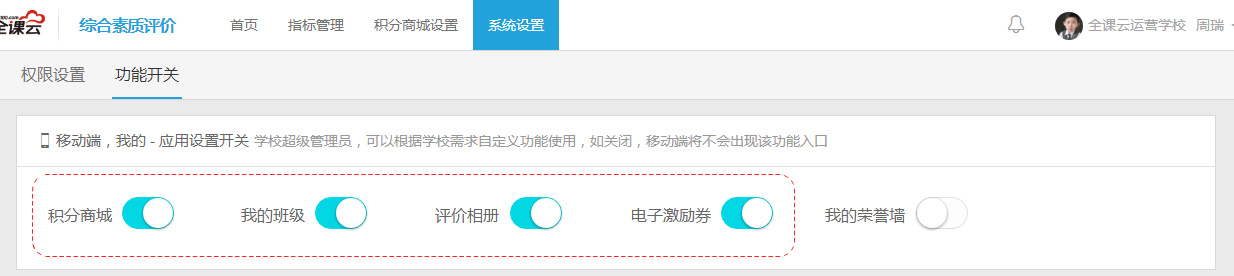
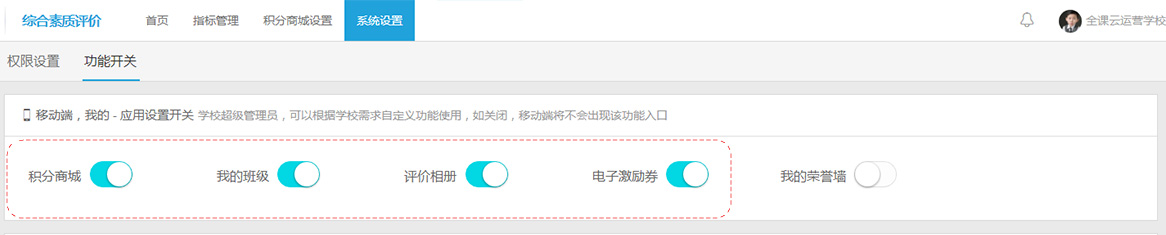
调整

diff --git a/Daily-evaluation/html/04sysset.html b/Daily-evaluation/html/04sysset.html
@@ -127,7 +127,7 @@
   </div>
   <div class="cont-wrap mar_t15">
     <div class="cont_tit pad_lr20 clear">
-      <div class="col-sm-7 pad_0"><h3><i class="qkyicon mar_r5">&#xe640;</i>评价老师授权<span class="fz_1 co_999 mar_l5">被超级管理员授权的老师，拥有评价学生操作权限；设置后评价老师进入移动端，将直接进入评价页操作</span></h3></div>
+      <div class="col-sm-7 pad_0"><h3><i class="qkyicon mar_r5">&#xe640;</i>评价老师授权<span class="fz_1 co_999 mar_l5">由学生管理员自行设置，设置后将拥有评价学生的操作权限，并同步移动端权限 </span></h3></div>
       <div class="fr">
         <a class=" btn btn-default" data-toggle="modal" data-target="#add-teacher"><i class="qkyicon fz_1">&#xe731;</i>添加老师</a>
       </div>

diff --git a/Daily-evaluation/html/04sysset_on-off.html b/Daily-evaluation/html/04sysset_on-off.html
@@ -121,7 +121,7 @@
       <h2 class="pad_15 text-center">关于移动端“我的”功能应用</h2>
       <div class="pad_t15">
         <div class=" fz15">我的应用简介：</div>
-        <div class="pad_10">
+        <div class="pad_10 text-indent">
           除了学生评价操作外，产品在评价记录使用上，新增更加丰富激励性的功能；其中，积分商城等功能让学校和家庭更好参与评价过程中，达到评而学、学而评的目标，更好的促进学生综合素质发展。学校可自主开关功能入口，打开后，用户在移动端即可操作。
         </div>
       </div>

diff --git a/Daily-evaluation/css/stu_judge.css b/Daily-evaluation/css/stu_judge.css
@@ -1158,4 +1158,4 @@ span.tit_span.tit_span-lg{ min-width:120px;}
 .weui-switch:checked:after,.weui-switch-cp__input:checked ~ .weui-switch-cp__box:after { -webkit-transform: translateX(20px);transform: translateX(20px);}
 .weui-switch-cp__input { position: absolute; left: -9999px;}
 .weui-switch-cp__box {display: block;}
-.on-off_img{ max-width:100%; width:auto;}
+.on-off_img{ max-width:92%; width:auto;}
